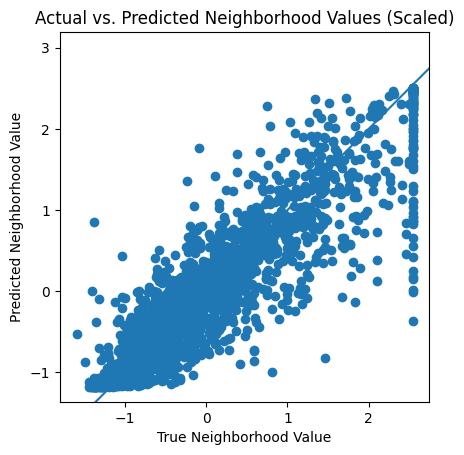
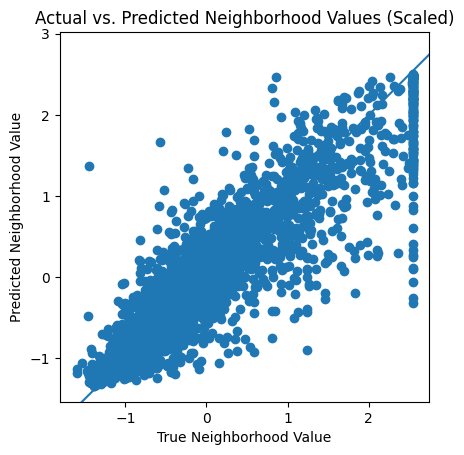
Update data

diff --git a/Paper Draft/Draft.tex b/Paper Draft/Draft.tex
@@ -122,7 +122,7 @@ In conclusion, the use of a linear regression model for housing market predictio
     \label{fig:pred}
 \end{figure}
 
-Our model had a mean squared error of $0.2017$ when we evaluated our testing data. As you can see from \autoref{fig:pred} our model struggled at predicting the value of neighborhoods with high value.  
+Our model had a mean squared error of $0.1837$ when we evaluated our testing data. As you can see from \autoref{fig:pred} our model struggled at predicting the value of neighborhoods with high value.  
 \section{Discussion}
 It is vital to compare the two methods and highlighting the key advantages of using a neural network over a linear regression.
 
